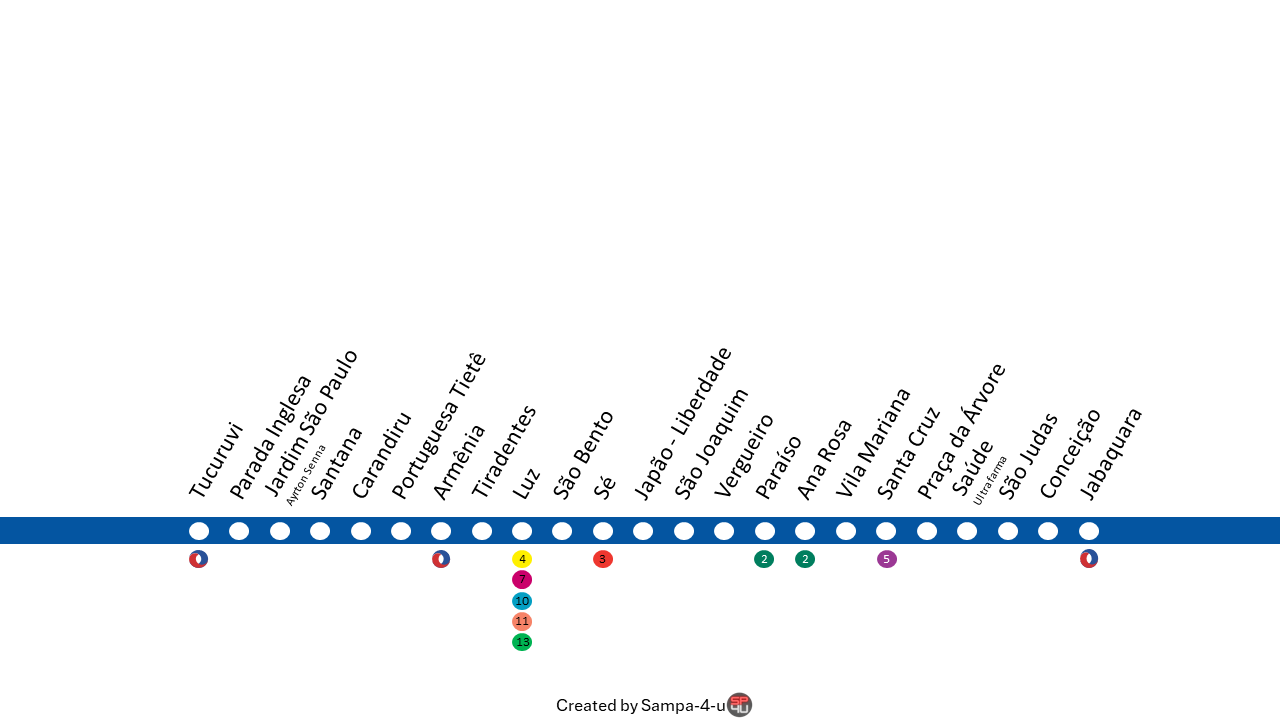
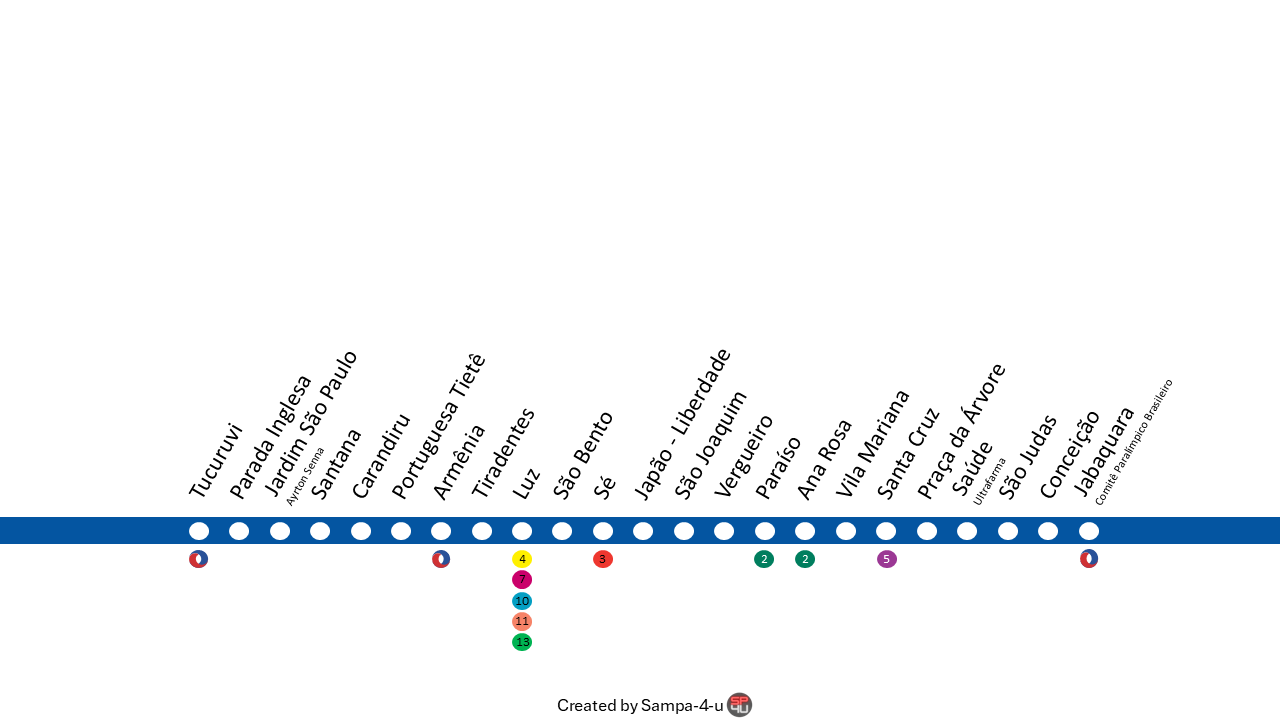
main

diff --git a/Mapa_dos_Trilhos/Linhas/SP_L01.py b/Mapa_dos_Trilhos/Linhas/SP_L01.py
@@ -257,7 +257,7 @@ def line1():
                                   font="Helvetica 12", anchor="w", angle=60)
     nome_CON = canvas.create_text(x22+8, y22-13, text="Conceição",
                                   font="Helvetica 12", anchor="w", angle=60)
-    nome_JAB = canvas.create_text(x23+8, y23-13, text="Jabaquara",
+    nome_JAB = canvas.create_text(x23+8, y23-13, text="Jabaquara - Comitê Paralímpico Brasileiro",
                                   font="Helvetica 12", anchor="w", angle=60)
 
     # Cria um texto na parte inferior da tela indicando a autoria e data de desenvolvimento
